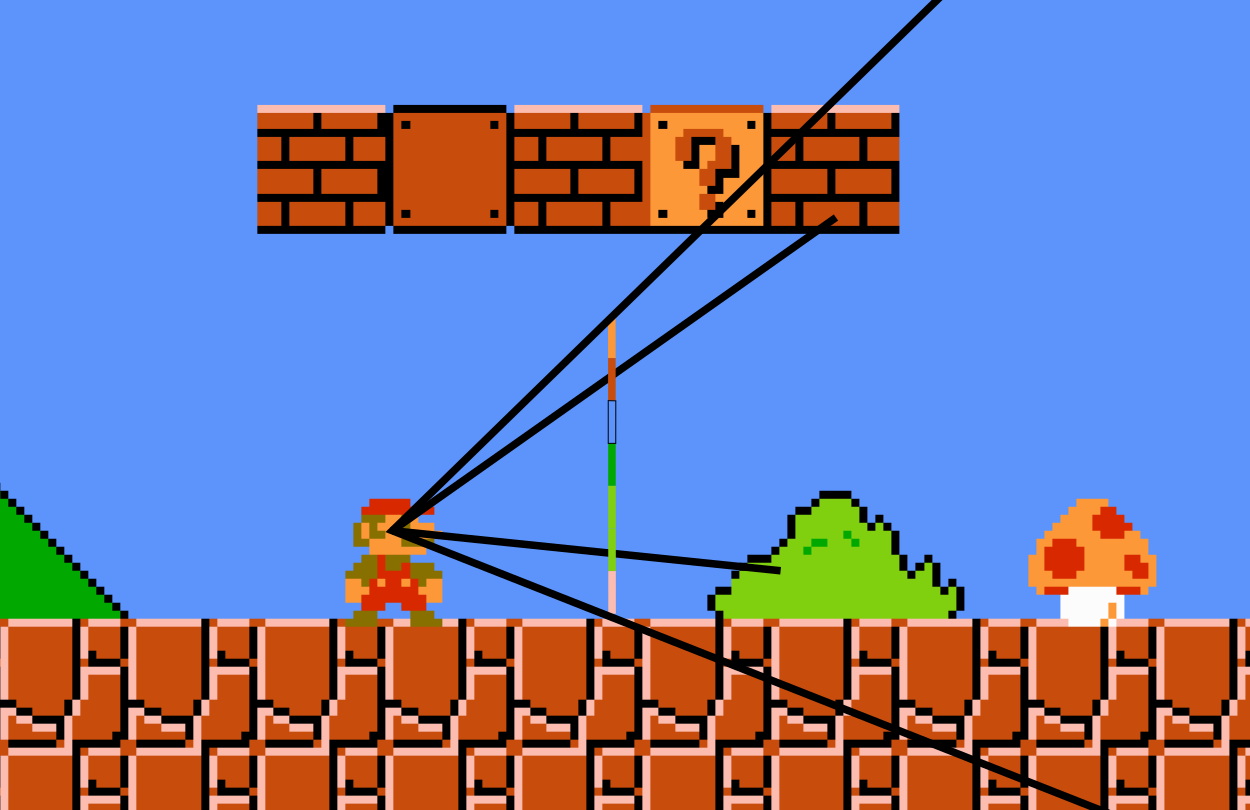
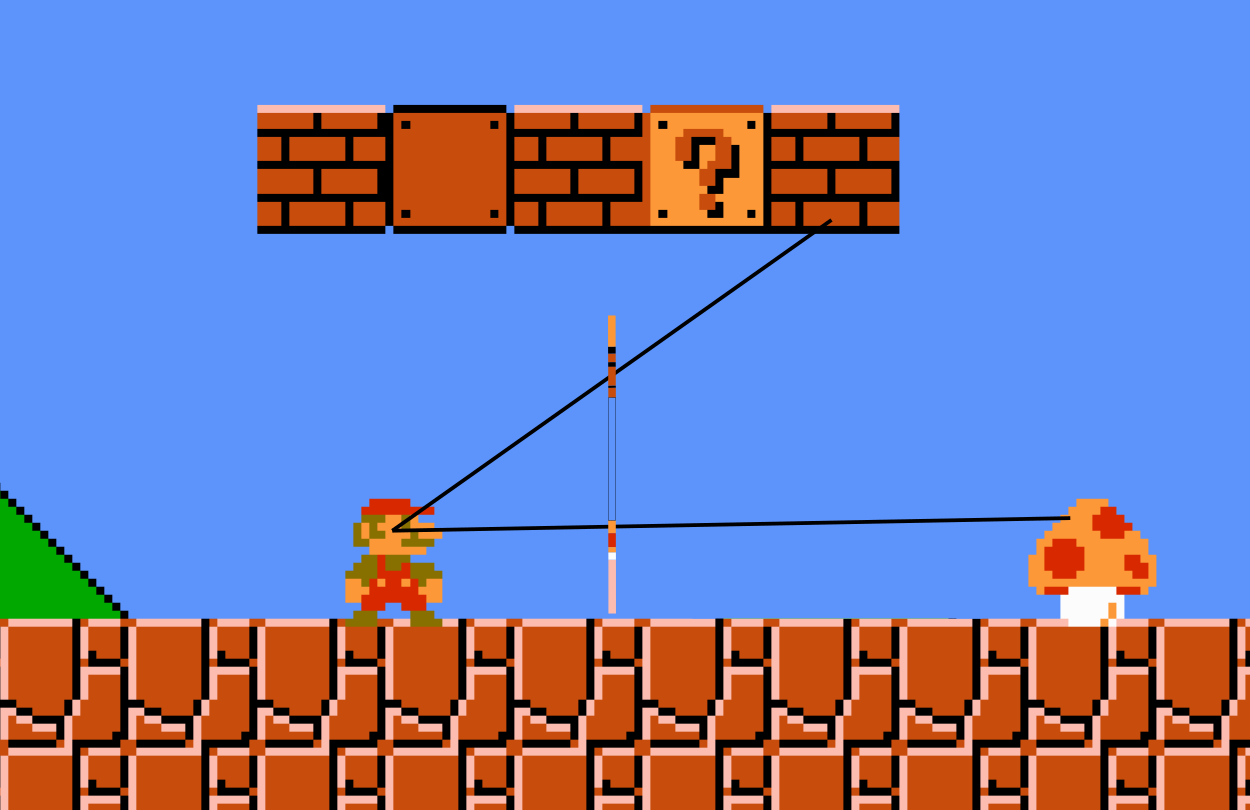
clean up huh page

diff --git a/website/huh.html b/website/huh.html
@@ -15,7 +15,7 @@ title: Huh‽
         <input type="checkbox">
         <div class="tri-toggle"></div>
         <span class="q">
-            Huh‽ What am I looking at when I play this game?
+            What am I looking at when I play this game?
         </span>
         <div class="a">
             <p>
@@ -29,7 +29,7 @@ title: Huh‽
             <figure>
                 <img src="/static/ray_trace_3d.svg" style="width: 100%" alt="Diagram of 3D ray tracing" />
                 <figcaption>
-                    The ray-tracing process, rays are cast from a camera through a pixel grid into a scene, where the rays intersect a sphere. The color of the sphere is then transfered to the pixel the ray passed through. Modified from Henrik, CC BY-SA 4.0 <a href="https://creativecommons.org/licenses/by-sa/4.0">https://creativecommons.org/licenses/by-sa/4.0;</a>, via Wikimedia Commons
+                    The ray-tracing process. Rays are cast from a camera through a pixel grid into a scene, where they intersect a sphere. The color of the sphere is then transfered to the pixel the ray passed through. Modified from Henrik, CC BY-SA 4.0 <a href="https://creativecommons.org/licenses/by-sa/4.0">https://creativecommons.org/licenses/by-sa/4.0;</a>, via Wikimedia Commons
                 </figcaption>
             </figure>
 
@@ -40,7 +40,7 @@ title: Huh‽
             <figure>
                 <img src="/static/ray_trace_2d.png" style="width: 100%" alt="Diagram of 2D ray tracing" />
                 <figcaption>
-                    In this oversimplified diagram, the seven one dimensional pixels running vertically in front of Mario make up the screen, where in reality we would use many more. A diceringing eye will note that I'm in fact taking the colors from inside the objects and not from their surfaces. This is an artistic choice to ignore the outer layer of black, and not a reality of the ray tracing process.
+                    The ray-tracing process in a 2D world. Rays are cast from Mario through a 1D screen into the game world, where they intersect various objects. Black borders around objects are ignored / removed.
                 </figcaption>
             </figure>
 
@@ -57,7 +57,7 @@ title: Huh‽
         <input type="checkbox">
         <div class="tri-toggle"></div>
         <span class="q">
-            Huh‽ How is this one dimensional? The game line is more than one pixel wide!
+            How is this 1D? The game is more than one pixel wide!
         </span>
         <div class="a">
             <p>
@@ -76,7 +76,7 @@ title: Huh‽
         <input type="checkbox">
         <div class="tri-toggle"></div>
         <span class="q">
-            Huh‽ What's with the weird stripey image on the front page?
+            What's with the weird stripey image on the front page?
         </span>
         <div class="a">
             <p>
@@ -94,7 +94,7 @@ title: Huh‽
         <input type="checkbox">
         <div class="tri-toggle"></div>
         <span class="q">
-            Huh‽ I'm having so much trouble with this game!
+            I'm having so much trouble with this game!
         </span>
         <div class="a">
             <p>
@@ -116,7 +116,7 @@ title: Huh‽
         <input type="checkbox">
         <div class="tri-toggle"></div>
         <span class="q">
-            Huh‽ What's with the name MAR1D?
+            What's with the name MAR1D?
         </span>
         <div class="a">
             <p>
